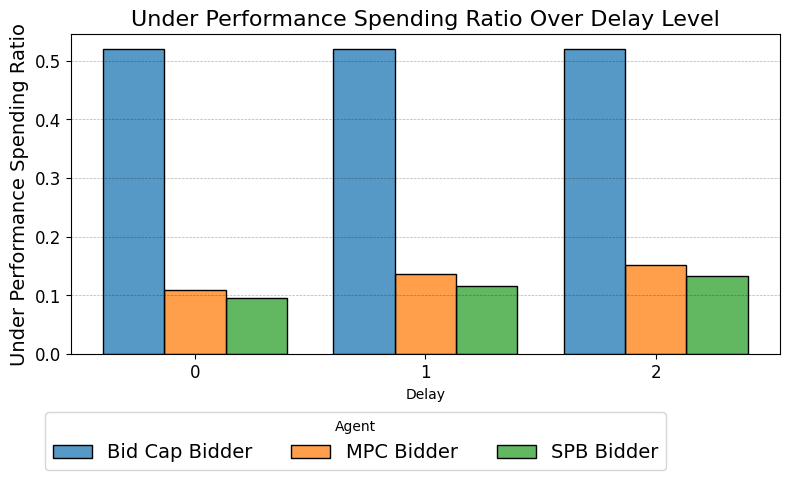
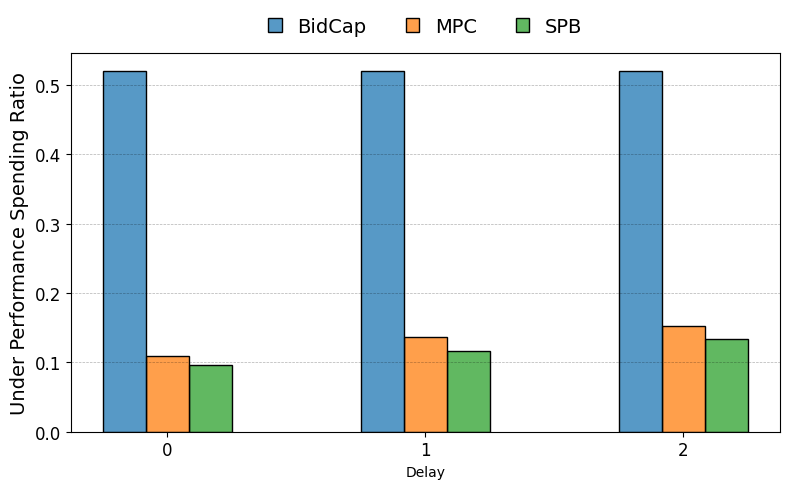
update offline_results image style

diff --git a/src/compare.py b/src/compare.py
@@ -9,12 +9,21 @@ FONTSIZE = 14
 E1 = '\u03b51'
 output_dir = '.'
 fmt = 'pdf'
+#sns.set_palette([(0, 0, 0), (1, 1, 1), (0.5, 0.5, 0.5)])
+
+name_map = {
+    'Bid Cap Bidder': 'BidCap',
+    'MPC Bidder': 'MPC',
+    'SPB Bidder': 'SPB',
+}
 
 def plot_measure_over_dim(df, measure_name, dim, cumulative=False, log_y=False, yrange=None, optimal=None):
     fig, axes = plt.subplots(figsize=FIGSIZE)
-    plt.title(f'{measure_name} Over {dim}', fontsize=FONTSIZE + 2)
+    #plt.title(f'{measure_name} Over {dim}', fontsize=FONTSIZE + 2, y=-0.2)
     min_measure, max_measure = 0.0, 0.0
-    sns.lineplot(data=df, x=dim, y=measure_name, hue='Agent', ax=axes)
+    sns.lineplot(data=df, x=dim, y=measure_name, hue='Agent', ax=axes
+            #,palette=['0', '0', '0'], style='Agent', style_order=sorted(name_map.values()), dashes=[(1, 1), (4, 2), (1, 0)], markers=True
+            )
     plt.xticks(np.arange(df[dim].min(), df[dim].max() + 0.1, 0.1), fontsize=FONTSIZE - 2)
     plt.ylabel(f'{measure_name}', fontsize=FONTSIZE)
     if optimal is not None:
@@ -29,7 +38,12 @@ def plot_measure_over_dim(df, measure_name, dim, cumulative=False, log_y=False, 
         plt.ylim(yrange[0], yrange[1])
     plt.yticks(fontsize=FONTSIZE - 2)
     plt.grid(True, 'major', 'y', ls='--', lw=.5, c='k', alpha=.3)
-    plt.legend(loc='upper left', bbox_to_anchor=(-.05, -.15), fontsize=FONTSIZE, ncol=3)
+    #handles, labels = plt.gca().get_legend_handles_labels()
+    #order = list(reversed(range(len(labels))))
+    plt.legend(
+            #[handles[idx] for idx in order],[labels[idx] for idx in order],
+            loc='lower center', bbox_to_anchor=(.5, 1), fontsize=FONTSIZE,
+        ncol=3, title=None, frameon=False, handlelength=3, handleheight=1)
     plt.tight_layout()
     delay_info = ''
     dmax = df['Delay'].max()
@@ -45,12 +59,14 @@ def plot_measure_over_dim(df, measure_name, dim, cumulative=False, log_y=False, 
     plt.close()
     return df
 
+
 def plot_measure_over_dim_hist(df, measure_name, dim, cumulative=False, log_y=False, yrange=None, optimal=None):
     fig, axes = plt.subplots(figsize=FIGSIZE)
-    plt.title(f'{measure_name} Over {dim}', fontsize=FONTSIZE + 2)
+    #plt.title(f'{measure_name} Over {dim}', fontsize=FONTSIZE + 2, y=-0.2)
     min_measure, max_measure = 0.0, 0.0
     #sns.lineplot(data=df, x=dim, y=measure_name, hue='Agent', ax=axes)
-    sns.histplot(data=df, x=dim, weights=measure_name, bins=list(np.arange(-0.05,2.55,0.1)), kde=False, hue='Agent', ax=axes, element='bars', multiple='dodge', shrink=.8) 
+    sns.histplot(data=df, x=dim, weights=measure_name, bins=list(np.arange(-0.05,2.55,0.1)), kde=False,
+            hue='Agent', ax=axes, element='bars', multiple='dodge', shrink=.5) 
     plt.xticks(np.arange(df[dim].min(), df[dim].max() + 0.5, 0.5), fontsize=FONTSIZE - 2)
     plt.ylabel(f'{measure_name}', fontsize=FONTSIZE)
     if optimal is not None:
@@ -65,7 +81,7 @@ def plot_measure_over_dim_hist(df, measure_name, dim, cumulative=False, log_y=Fa
         plt.ylim(yrange[0], yrange[1])
     plt.yticks(fontsize=FONTSIZE - 2)
     plt.grid(True, 'major', 'y', ls='--', lw=.5, c='k', alpha=.3)
-    sns.move_legend(axes, loc='upper left', bbox_to_anchor=(-.05, -.15), fontsize=FONTSIZE, ncol=3)
+    sns.move_legend(axes, loc='lower center', bbox_to_anchor=(.5, 1), fontsize=FONTSIZE, ncol=3, title=None, frameon=False, handlelength=0.7)
     plt.tight_layout()
     delay_info = ''
     dmax = df['Delay'].max()
@@ -81,11 +97,13 @@ def plot_measure_over_dim_hist(df, measure_name, dim, cumulative=False, log_y=Fa
     plt.close()
     return df
 
+
 def plot_measure_over_delay(df, measure_name, cumulative=False, log_y=False, yrange=None, optimal=None):
     fig, axes = plt.subplots(figsize=FIGSIZE)
-    plt.title(f'{measure_name} Over Delay Level', fontsize=FONTSIZE + 2)
+    #plt.title(f'{measure_name} Over Delay Level', fontsize=FONTSIZE + 2, y=-0.2)
     min_measure, max_measure = 0.0, 0.0
-    sns.histplot(data=df, x='Delay', weights=measure_name, discrete=True, hue='Agent', element='bars', multiple='dodge', shrink=.8, ax=axes)
+    sns.histplot(data=df, x='Delay', weights=measure_name, discrete=True, hue='Agent', element='bars',
+            multiple='dodge', shrink=.5, ax=axes)
     plt.xticks(range(df['Delay'].max() + 1),fontsize=FONTSIZE - 2)
     plt.ylabel(f'{measure_name}', fontsize=FONTSIZE)
     if optimal is not None:
@@ -100,11 +118,12 @@ def plot_measure_over_delay(df, measure_name, cumulative=False, log_y=False, yra
         plt.ylim(yrange[0], yrange[1])
     plt.yticks(fontsize=FONTSIZE - 2)
     plt.grid(True, 'major', 'y', ls='--', lw=.5, c='k', alpha=.3)
-    sns.move_legend(axes, loc='upper left', bbox_to_anchor=(-.05, -.15), fontsize=FONTSIZE, ncol=3)
+    sns.move_legend(axes, loc='lower center', bbox_to_anchor=(.5, 1), fontsize=FONTSIZE, ncol=3, title=None, frameon=False, handlelength=0.7)
     plt.tight_layout()
     plt.savefig(f"{output_dir}/{measure_name.replace(' ', '_')}_over_delay_level_compare.{fmt}", bbox_inches='tight')
     plt.close()
     return df
+
 
 def concat_csv(bidders, csv):
     df = None
@@ -114,6 +133,7 @@ def concat_csv(bidders, csv):
         else:
             df = pd.read_csv(os.path.join(bidder, csv))
     return df
+
 
 if __name__ == '__main__':
     import argparse
@@ -131,12 +151,16 @@ if __name__ == '__main__':
     fmt = args.format
 
     e1df = concat_csv(args.bidders, 'e1.csv')
+    e1df['Agent'] = e1df['Agent'].apply(lambda name: name_map.get(name, name))
     for i in range(e1df['Delay'].max() + 1):
         plot_measure_over_dim(e1df[e1df['Delay'] == i], 'Violation Value Ratio', E1)
     roidf = concat_csv(args.bidders, 'roi.csv')
+    roidf['Agent'] = roidf['Agent'].apply(lambda name: name_map.get(name, name))
     for i in range(roidf['Delay'].max() + 1):
         plot_measure_over_dim_hist(roidf[roidf['Delay'] == i], 'Value Ratio', 'Roi vs Target Roi')
     df = concat_csv(args.bidders, 'value_spend.csv')
+    df['Agent'] = df['Agent'].apply(lambda name: name_map.get(name, name))
+
     keys = [
         'Total Value',
         'Total Spending',
